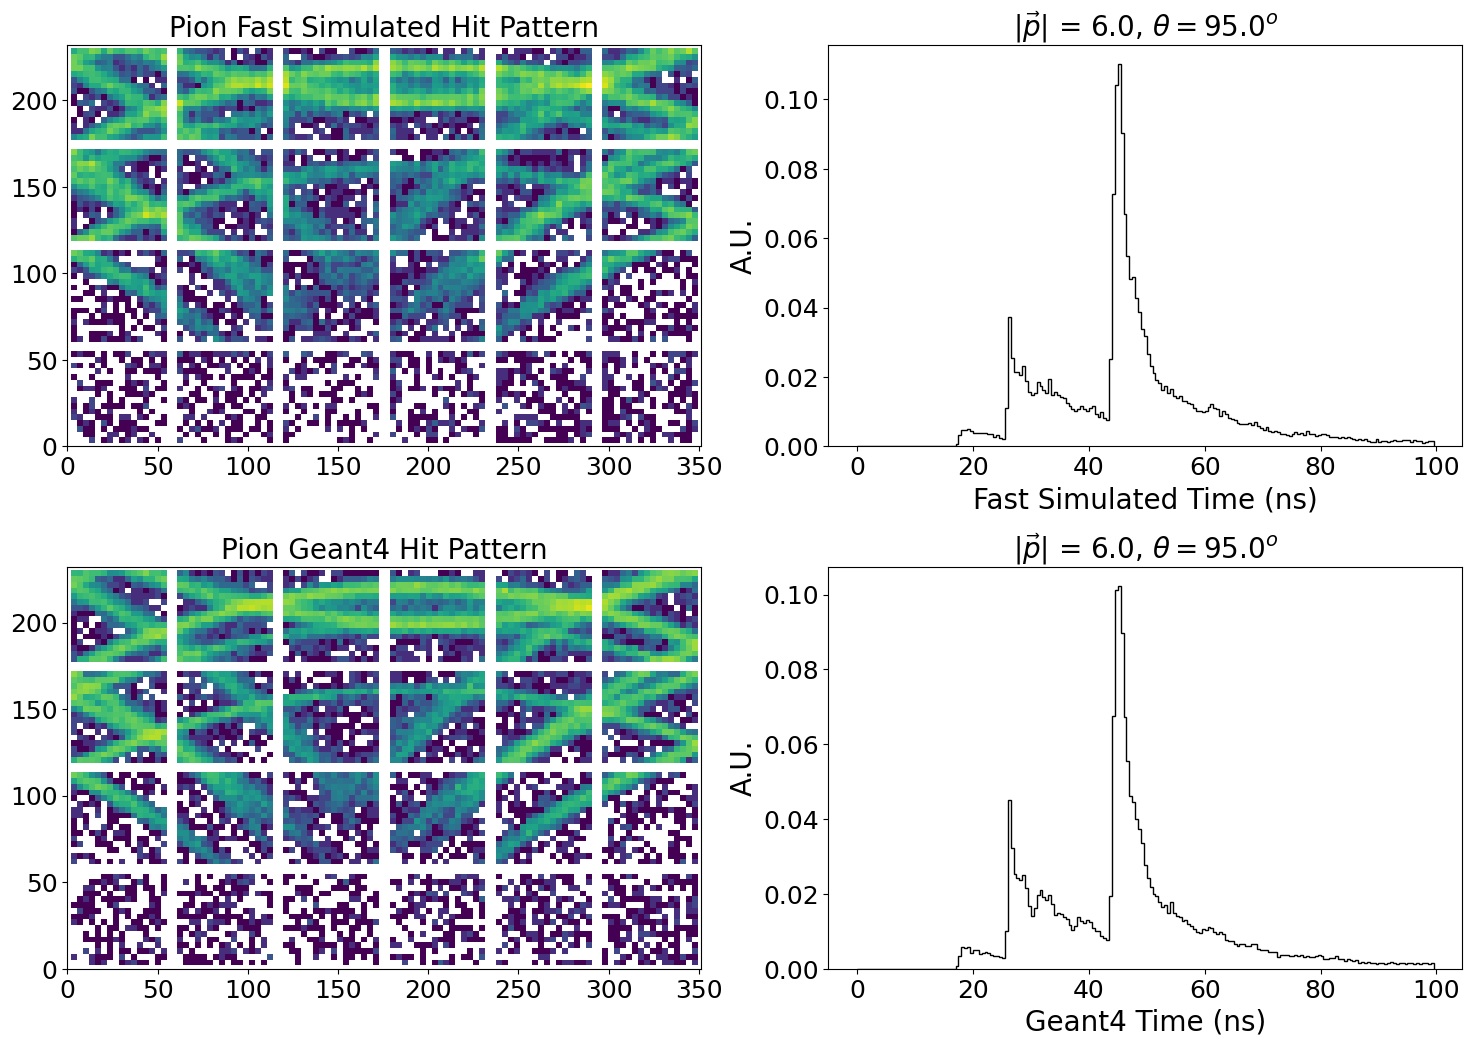
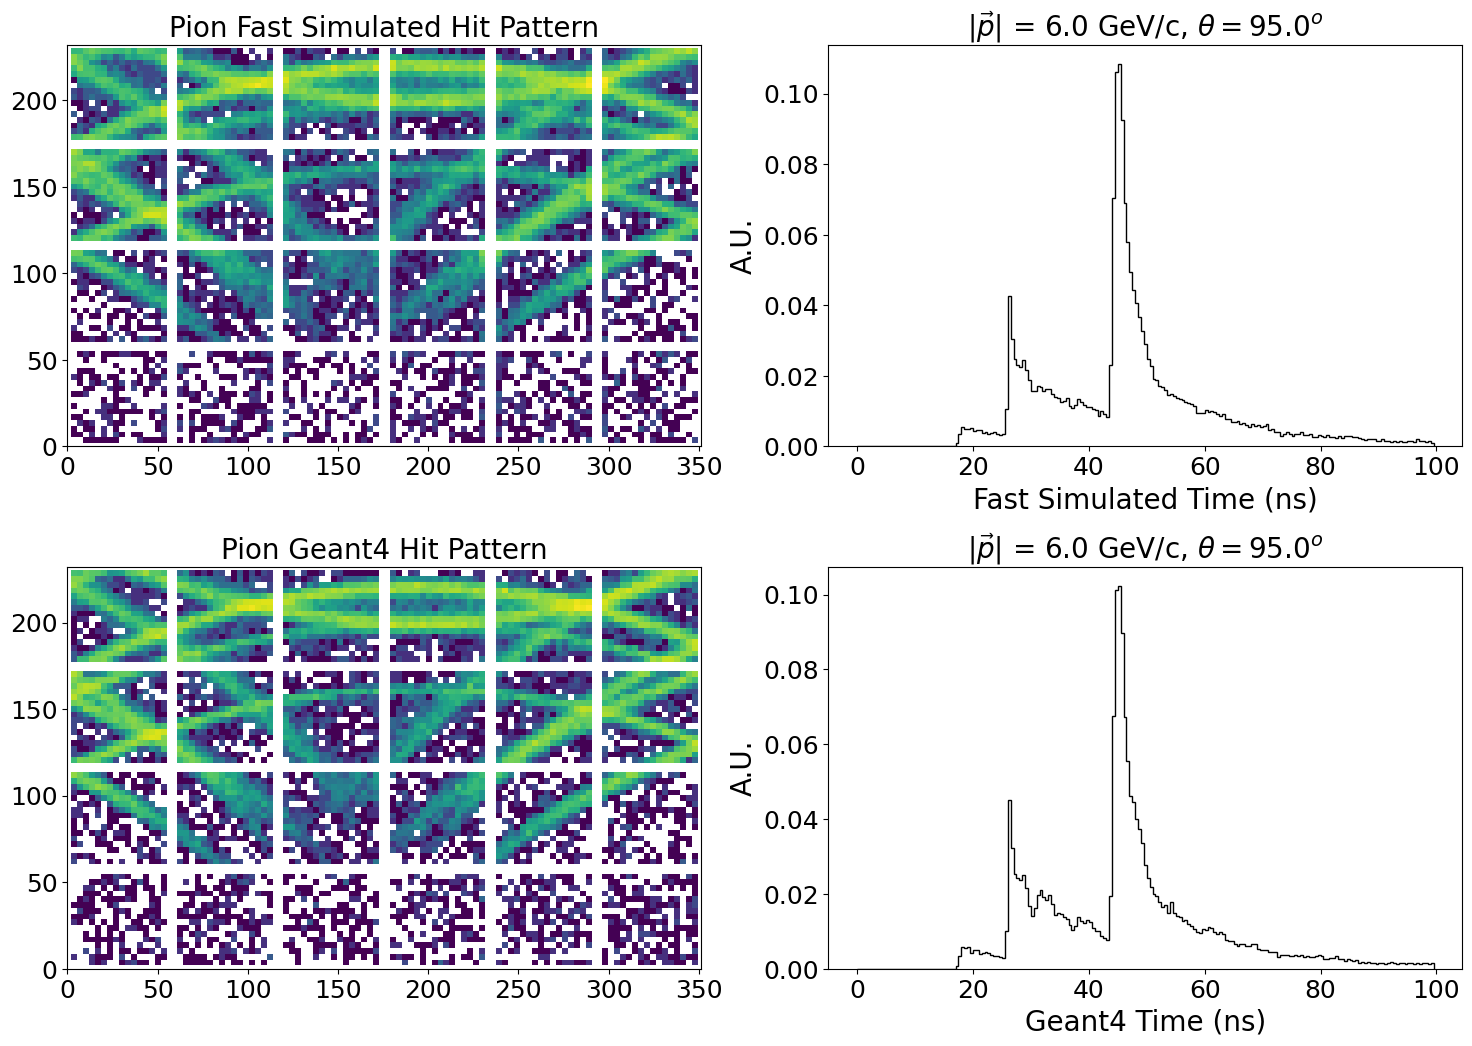
add more quant, fix discretization

diff --git a/generate_phasespace_hpDIRC.py b/generate_phasespace_hpDIRC.py
@@ -1,0 +1,156 @@
+import os
+import json
+import argparse
+import torch
+import random
+import numpy as np
+from torch.utils.data import TensorDataset, DataLoader
+from dataloader.dataloader import CreateLoaders
+import pkbar
+import torch.nn as nn
+from datetime import datetime
+import itertools
+import matplotlib.pyplot as plt
+import time
+from matplotlib.colors import LogNorm
+from models.NF.freia_models import FreiaNet
+from models.OT_Flow.ot_flow import OT_Flow
+from models.FlowMatching.flow_matching import FlowMatching
+import matplotlib.colors as mcolors
+import pickle
+import warnings
+from make_plots import make_ratios
+
+warnings.filterwarnings("ignore", message=".*weights_only.*")
+
+
+def main(config,args):
+
+    # Setup random seed
+    print("Using model type: ",str(args.model_type))
+    torch.manual_seed(config['seed'])
+    np.random.seed(config['seed'])
+    random.seed(config['seed'])
+    torch.cuda.manual_seed(config['seed'])
+
+    config['method'] = args.method
+
+    if config['method'] == "Pion":
+        print("Generating for pions.")
+        dicte = torch.load(config['Inference']['pion_model_path_'+str(args.model_type)])
+        PID = 211
+    elif config['method'] == 'Kaon':
+        print("Generation for kaons.")
+        dicte = torch.load(config['Inference']['kaon_model_path_'+str(args.model_type)])
+        PID = 321
+    else:
+        print("Specify particle to generate in config file")
+        exit()
+        
+
+    num_layers = int(config['model_'+str(args.model_type)]['num_layers'])
+    input_shape = int(config['model_'+str(args.model_type)]['input_shape'])
+    cond_shape = int(config['model_'+str(args.model_type)]['cond_shape'])
+    num_blocks = int(config['model_'+str(args.model_type)]['num_blocks'])
+    hidden_nodes = int(config['model_'+str(args.model_type)]['hidden_nodes'])
+    stats = config['stats']
+    
+    if args.model_type == "NF":
+        net = FreiaNet(input_shape,num_layers,cond_shape,embedding=False,hidden_units=hidden_nodes,num_blocks=num_blocks,stats=stats)
+    elif args.model_type == "CNF":
+        alph = config['model_'+str(args.model_type)]['alph']
+        train_T = bool(config['model_'+str(args.model_type)]['train_T'])
+        net = net = OT_Flow(input_shape,num_layers,cond_shape,embedding=False,hidden_units=hidden_nodes,stats=stats,train_T=True,alph=alph)
+    elif args.model_type == "FlowMatching":
+        net = FlowMatching(input_shape,num_layers,cond_shape,embedding=False,hidden_units=hidden_nodes,stats=stats)
+    else:
+        raise ValueError("Model type not found.")
+
+    t_params = sum(p.numel() for p in net.parameters())
+    print("Network Parameters: ",t_params)
+    device = torch.device('cuda')
+    net.to('cuda')
+    net.load_state_dict(dicte['net_state_dict'])
+    n_samples = int(config['Inference']['samples'])
+
+    if config['method'] == 'Pion':
+        print("Generating Pions over entire phase space.")
+        print("Using first {0} pions for comparison.".format(args.n_particles))
+        datapoints = np.load(config['dataset']['full_phase_space']["pion_data_path"],allow_pickle=True)[:args.n_particles]
+
+    elif config['method'] == 'Kaon':
+        print("Generating Kaons over entire phase space.")
+        print("Using first {0} pions for comparison.".format(args.n_particles))
+        datapoints = np.load(config['dataset']['full_phase_space']["kaon_data_path"],allow_pickle=True)[:args.n_particles]
+            
+    else:
+        raise ValueError("Method not found.")
+
+    generations = []
+    kbar = pkbar.Kbar(target=len(datapoints), width=20, always_stateful=False)
+    start = time.time()
+    n_photons = 0
+    for i in range(len(datapoints)):   
+        with torch.set_grad_enabled(False):
+            p = (datapoints[i]['P'] - stats['P_max'])  / (stats['P_max'] - stats['P_min'])
+            theta = (datapoints[i]['Theta'] - stats['theta_max']) / (stats['theta_max'] - stats['theta_min'])
+            k = torch.tensor(np.array([p,theta])).to('cuda').float()
+            
+            if datapoints[i]['NHits'] > 0:
+                gen = net.create_tracks(num_samples=datapoints[i]['NHits'],context=k.unsqueeze(0))
+                n_photons += datapoints[i]['NHits']
+            else:
+                print("Error with number of hits to generate: ",datapoints[i]['NHits'])
+                continue
+        
+        generations.append(gen)
+        kbar.update(i)
+    end = time.time()
+
+    print(" ")
+    print("Number of tracks generated: ",len(generations))
+    print("Number of photons generated: ",net.photons_generated)
+    print("Number of photons resampled: ",net.photons_resampled)
+    print('Percentage effect: ',net.photons_resampled * 100 / net.photons_generated)
+    print("Elapsed Time: ", end - start)
+    print("Time / photon: ",(end - start) / n_photons)
+    print("Average time / track: ",(end - start) / len(datapoints))
+    print(" ")
+    gen_dict = {}
+    gen_dict['fast_sim'] = generations
+    gen_dict['truth'] = datapoints
+
+    os.makedirs("Generations",exist_ok=True)
+    out_folder = os.path.join("Generations",config['Inference']['full_phase_space_dir'])
+    os.makedirs(out_folder,exist_ok=True)
+    print("Outputs can be found in " + str(out_folder))
+
+    out_path_ = os.path.join(out_folder,str(config['method'])+f"_ntracks_{len(datapoints)}.pkl")
+    
+    with open(out_path_,"wb") as file:
+        pickle.dump(gen_dict,file)
+
+
+    print("Making ratio plots.")
+    del gen_dict,datapoints 
+
+
+    make_ratios(path_=out_folder,label=args.method,momentum="1-10",outpath=os.path.join(out_folder,f"Ratios_{args.method}.pdf"))
+
+
+
+if __name__=='__main__':
+    # PARSE THE ARGS
+    parser = argparse.ArgumentParser(description='FastSim Generation')
+    parser.add_argument('-c', '--config', default='config.json',type=str,
+                        help='Path to the config file (default: config.json)')
+    parser.add_argument('-nt', '--n_particles', default=2e5,type=int,help='Number of particles to generate. Take the first n_particles. -1 is all tracks available.')
+    parser.add_argument('-m', '--method',default="Kaon",type=str,help='Generated particle type, Kaon or Pion.')
+    parser.add_argument('-mt','--model_type',default="NF",type=str,help='Which model to use.')
+    args = parser.parse_args()
+
+    args.n_particles = int(args.n_particles)
+
+    config = json.load(open(args.config))
+
+    main(config,args)

diff --git a/models/NF/freia_models.py b/models/NF/freia_models.py
@@ -208,6 +208,17 @@ class FreiaNet(nn.Module):
         closest_indices = torch.argmin(diffs, dim=1)
         closest_values = allowed[closest_indices]
         return closest_values
+
+    def set_to_closest_2d(self,hits):
+        allowed_pairs = torch.cartesian_prod(self._allowed_x.to(self.device).float(), self._allowed_y.to(self.device).float()) 
+
+        diffs = hits.unsqueeze(1) - allowed_pairs 
+        distances = torch.norm(diffs, dim=2) 
+
+        closest_indices = torch.argmin(distances, dim=1)
+        closest_values = allowed_pairs[closest_indices]
+
+        return closest_values[:,0].detach().cpu(),closest_values[:,1].detach().cpu()
             
     def _sample(self,num_samples,context):
         samples = self.__sample(num_samples,context)
@@ -221,8 +232,8 @@ class FreiaNet(nn.Module):
 
     def __get_track(self,num_samples,context):
         samples = self.__sample(num_samples,context)
-        x = self.unscale(samples[:,0].flatten(),self.stats_['x_max'],self.stats_['x_min']).round()
-        y = self.unscale(samples[:,1].flatten(),self.stats_['y_max'],self.stats_['y_min']).round()
+        x = self.unscale(samples[:,0].flatten(),self.stats_['x_max'],self.stats_['x_min'])#.round()
+        y = self.unscale(samples[:,1].flatten(),self.stats_['y_max'],self.stats_['y_min'])#.round()
         t = self.unscale(samples[:,2].flatten(),self.stats_['time_max'],self.stats_['time_min'])
 
         return torch.concat((x.unsqueeze(1),y.unsqueeze(1),t.unsqueeze(1)),1)
@@ -254,8 +265,9 @@ class FreiaNet(nn.Module):
             self.photons_generated += len(resampled_hits)
             
 
-        x = self.set_to_closest(updated_hits[:,0],self._allowed_x).detach().cpu()
-        y = self.set_to_closest(updated_hits[:,1],self._allowed_y).detach().cpu()
+        # Use euclidean distance
+        x,y = self.set_to_closest_2d(updated_hits[:,:-1])
+        #x,y = updated_hits[:,0].detach().cpu(),updated_hits[:,1].detach().cpu()
         t = updated_hits[:,2].detach().cpu()
 
         pmtID = torch.div(x,torch.tensor(58,dtype=torch.int),rounding_mode='floor') + torch.div(y, torch.tensor(58,dtype=torch.int),rounding_mode='floor') * 6

diff --git a/models/FlowMatching/flow_matching.py b/models/FlowMatching/flow_matching.py
@@ -209,7 +209,18 @@ class FlowMatching(nn.Module):
         closest_indices = torch.argmin(diffs, dim=1)
         closest_values = allowed[closest_indices]
         return closest_values
-            
+
+    def set_to_closest_2d(self,hits):
+        allowed_pairs = torch.cartesian_prod(self._allowed_x.to(self.device).float(), self._allowed_y.to(self.device).float()) 
+
+        diffs = hits.unsqueeze(1) - allowed_pairs 
+        distances = torch.norm(diffs, dim=2) 
+
+        closest_indices = torch.argmin(distances, dim=1)
+        closest_values = allowed_pairs[closest_indices]
+
+        return closest_values[:,0].detach().cpu(),closest_values[:,1].detach().cpu()
+
     def _sample(self,num_samples,context,nt):
         samples = self.__sample(num_samples,context,nt=nt)
 
@@ -224,8 +235,8 @@ class FlowMatching(nn.Module):
 
     def __get_track(self,num_samples,context,nt):
         samples = self.__sample(num_samples,nt=nt,context=context)
-        x = self.unscale(samples[:,0].flatten(),self.stats_['x_max'],self.stats_['x_min']).round()
-        y = self.unscale(samples[:,1].flatten(),self.stats_['y_max'],self.stats_['y_min']).round()
+        x = self.unscale(samples[:,0].flatten(),self.stats_['x_max'],self.stats_['x_min'])#.round()
+        y = self.unscale(samples[:,1].flatten(),self.stats_['y_max'],self.stats_['y_min'])#.round()
         t = self.unscale(samples[:,2].flatten(),self.stats_['time_max'],self.stats_['time_min'])
 
         return torch.concat((x.unsqueeze(1),y.unsqueeze(1),t.unsqueeze(1)),1)
@@ -258,8 +269,8 @@ class FlowMatching(nn.Module):
             self.photons_generated += len(resampled_hits)
             
 
-        x = self.set_to_closest(updated_hits[:,0],self._allowed_x).detach().cpu()
-        y = self.set_to_closest(updated_hits[:,1],self._allowed_y).detach().cpu()
+        # Use euclidean distance
+        x,y = self.set_to_closest_2d(updated_hits[:,:-1])
         t = updated_hits[:,2].detach().cpu()
 
         pmtID = torch.div(x,torch.tensor(58,dtype=torch.int),rounding_mode='floor') + torch.div(y, torch.tensor(58,dtype=torch.int),rounding_mode='floor') * 6

diff --git a/models/OT_Flow/ot_flow.py b/models/OT_Flow/ot_flow.py
@@ -169,6 +169,17 @@ class OT_Flow(nn.Module):
         closest_indices = torch.argmin(diffs, dim=1)
         closest_values = allowed[closest_indices]
         return closest_values
+
+    def set_to_closest_2d(self,hits):
+        allowed_pairs = torch.cartesian_prod(self._allowed_x.to(self.device).float(), self._allowed_y.to(self.device).float()) 
+
+        diffs = hits.unsqueeze(1) - allowed_pairs 
+        distances = torch.norm(diffs, dim=2) 
+
+        closest_indices = torch.argmin(distances, dim=1)
+        closest_values = allowed_pairs[closest_indices]
+
+        return closest_values[:,0].detach().cpu(),closest_values[:,1].detach().cpu()
             
     def _sample(self,num_samples,context,nt=40):
         samples = self.__sample(num_samples,context,nt=nt)
@@ -183,8 +194,8 @@ class OT_Flow(nn.Module):
 
     def __get_track(self,num_samples,context,nt):
         samples = self.__sample(num_samples,context,nt=nt)
-        x = self.unscale(samples[:,0].flatten(),self.stats_['x_max'],self.stats_['x_min']).round()
-        y = self.unscale(samples[:,1].flatten(),self.stats_['y_max'],self.stats_['y_min']).round()
+        x = self.unscale(samples[:,0].flatten(),self.stats_['x_max'],self.stats_['x_min'])#.round()
+        y = self.unscale(samples[:,1].flatten(),self.stats_['y_max'],self.stats_['y_min'])#.round()
         t = self.unscale(samples[:,2].flatten(),self.stats_['time_max'],self.stats_['time_min'])
 
         return torch.concat((x.unsqueeze(1),y.unsqueeze(1),t.unsqueeze(1)),1)
@@ -217,8 +228,8 @@ class OT_Flow(nn.Module):
             self.photons_generated += len(resampled_hits)
             
 
-        x = self.set_to_closest(updated_hits[:,0],self._allowed_x).detach().cpu()
-        y = self.set_to_closest(updated_hits[:,1],self._allowed_y).detach().cpu()
+        # Use euclidean distance
+        x,y = self.set_to_closest_2d(updated_hits[:,:-1])
         t = updated_hits[:,2].detach().cpu()
 
 

diff --git a/make_plots.py b/make_plots.py
@@ -87,11 +87,11 @@ def make_plots_fastsim(file_path,label,momentum,theta,outpath,filename,log_norm=
         true_ys.append(y_)
         true_time.append(data['truth'][i]['leadTime'])
     
-    xs = np.concatenate(xs)
-    ys = np.concatenate(ys)
+    xs = np.concatenate(xs).astype('float32')
+    ys = np.concatenate(ys).astype('float32')
     time = np.concatenate(time)
-    true_xs = np.concatenate(true_xs)
-    true_ys = np.concatenate(true_ys)
+    true_xs = np.concatenate(true_xs).astype('float32')
+    true_ys = np.concatenate(true_ys).astype('float32')
     true_time = np.concatenate(true_time)
 
     fig, ax = plt.subplots(2,2,figsize=(18,12))
@@ -165,7 +165,7 @@ def make_ratios(path_,label,momentum,outpath):
     y_true = []
     t_true = []
     for file in os.listdir(path_):
-        if label not in file:
+        if label not in file or ".pkl" not in file:
             continue
 
         file_counter += 1

diff --git a/README.md b/README.md
@@ -34,8 +34,8 @@ Note: The generations will not be performed bar-by-bar, but at fixed regions of 
 
 
 <div style="display: flex; justify-content: space-between;">
-    <img src="assets/Pion_p_6.0_theta_90.0_PID_Pion_ntracks_1483..png" alt="Plot 1" width="45%" />
-    <img src="assets/Pion_p_6.0_theta_95.0_PID_Pion_ntracks_1488..png" alt="Plot 2" width="45%" />
+    <img src="assets/Pion_p_6.0_theta_95.0_PID_Pion_ntracks_1488..png" alt="Plot 1" width="45%" />
+    <img src="assets/Kaon_p_6.0_theta_90.0_PID_Kaon_ntracks_1465..png" alt="Plot 2" width="45%" />
 </div>
 
 ---
@@ -83,41 +83,56 @@ In the config file (also please feel free to remove all the model paths I have i
 
 I have included code for quantitative assessment of the fast simulations. This is included in the make_plots.py file and will run when you execture one of the batch scripts. It will produce the ratio plots below, along with printing you some metrics, i.e., the weighted average ratio and the weighted devation from 1 (RMS). These can be beautified later on, but give us a measure of performance. Note these run at a specific momentum, and integrate over theta.
 
+---
 
 <div align="center">
   <img src="assets/Ratios_Pion.png" alt="Figure 1: Pion Ratios" width="80%">
 </div>
 
----
+
 
 <div align="center">
   <img src="assets/Ratios_Kaon.png" alt="Figure 2: Kaon Ratios" width="80%">
 </div>
 
+---
 ## Pions
 **Ratios:**
-- **X:** 1.0197396402854462  
-- **Y:** 1.0186972537101524  
-- **Time:** 1.0004018114406121  
+- **X:** 1.0026906908032478 
+- **Y:** 1.0020676663483676 
+- **Time:** 1.0003601887060896 
 
 **RMS:**
-- **RMS X:** 0.14630745458616642  
-- **RMS Y:** 0.14238202323044372  
-- **RMS Time:** 0.02029495644844653  
+- **RMS X:** 0.05422697098701193 
+- **RMS Y:** 0.04756500211651575  
+- **RMS Time:** 0.019907633407560497 
 
 ---
 
 ## Kaons
 **Ratios:**
-- **X:** 1.0208054115024188  
-- **Y:** 1.0196786662200525  
-- **Time:** 1.0004422737339618  
+- **X:** 1.004091814980988
+- **Y:** 1.002646862099116  
+- **Time:** 1.0003746640035895  
 
 **RMS:**
-- **RMS X:** 0.14981686869362465  
-- **RMS Y:** 0.14590069612117637  
-- **RMS Time:** 0.022045840144454147
+- **RMS X:** 0.06796159986091514  
+- **RMS Y:** 0.053842877274253714 
+- **RMS Time:** 0.020213269591735018
 
+## **Generation over full phase space (Updated Jan 22, 2025)**
+I added additional code for ratio plots over the full phase space, you can run it using:
+
+```bash 
+python generate_phasespace_hpDIRC.py --method "Pion" --model_type "NF" --config config/hpDIRC_config_clean.json 
+```
+There is a n_particles flag that defaults to 200k, which is probably fine. Set it to -1 if you want to use all the data, this depends on how much RAM you have available. I have not made this super memory efficient. Currently in the ratio plots there seems to be an error with tracks that have zero hits, this is likely an artifact of not trimming phi != 0. Will investigate and correct this.
+
+---
+<div align="center">
+  <img src="assets/Ratios_Pion_FullPhaseSpace.png" alt="Figure 1: Pion Ratios" width="80%">
+</div>
+---
 
 ### **Creating your own simulation**
 This is more complicated. I don't think you should need to do it so I am going to save myself from detailing this but we can talk about it if you wish. Probably easier for me to run it for you.
